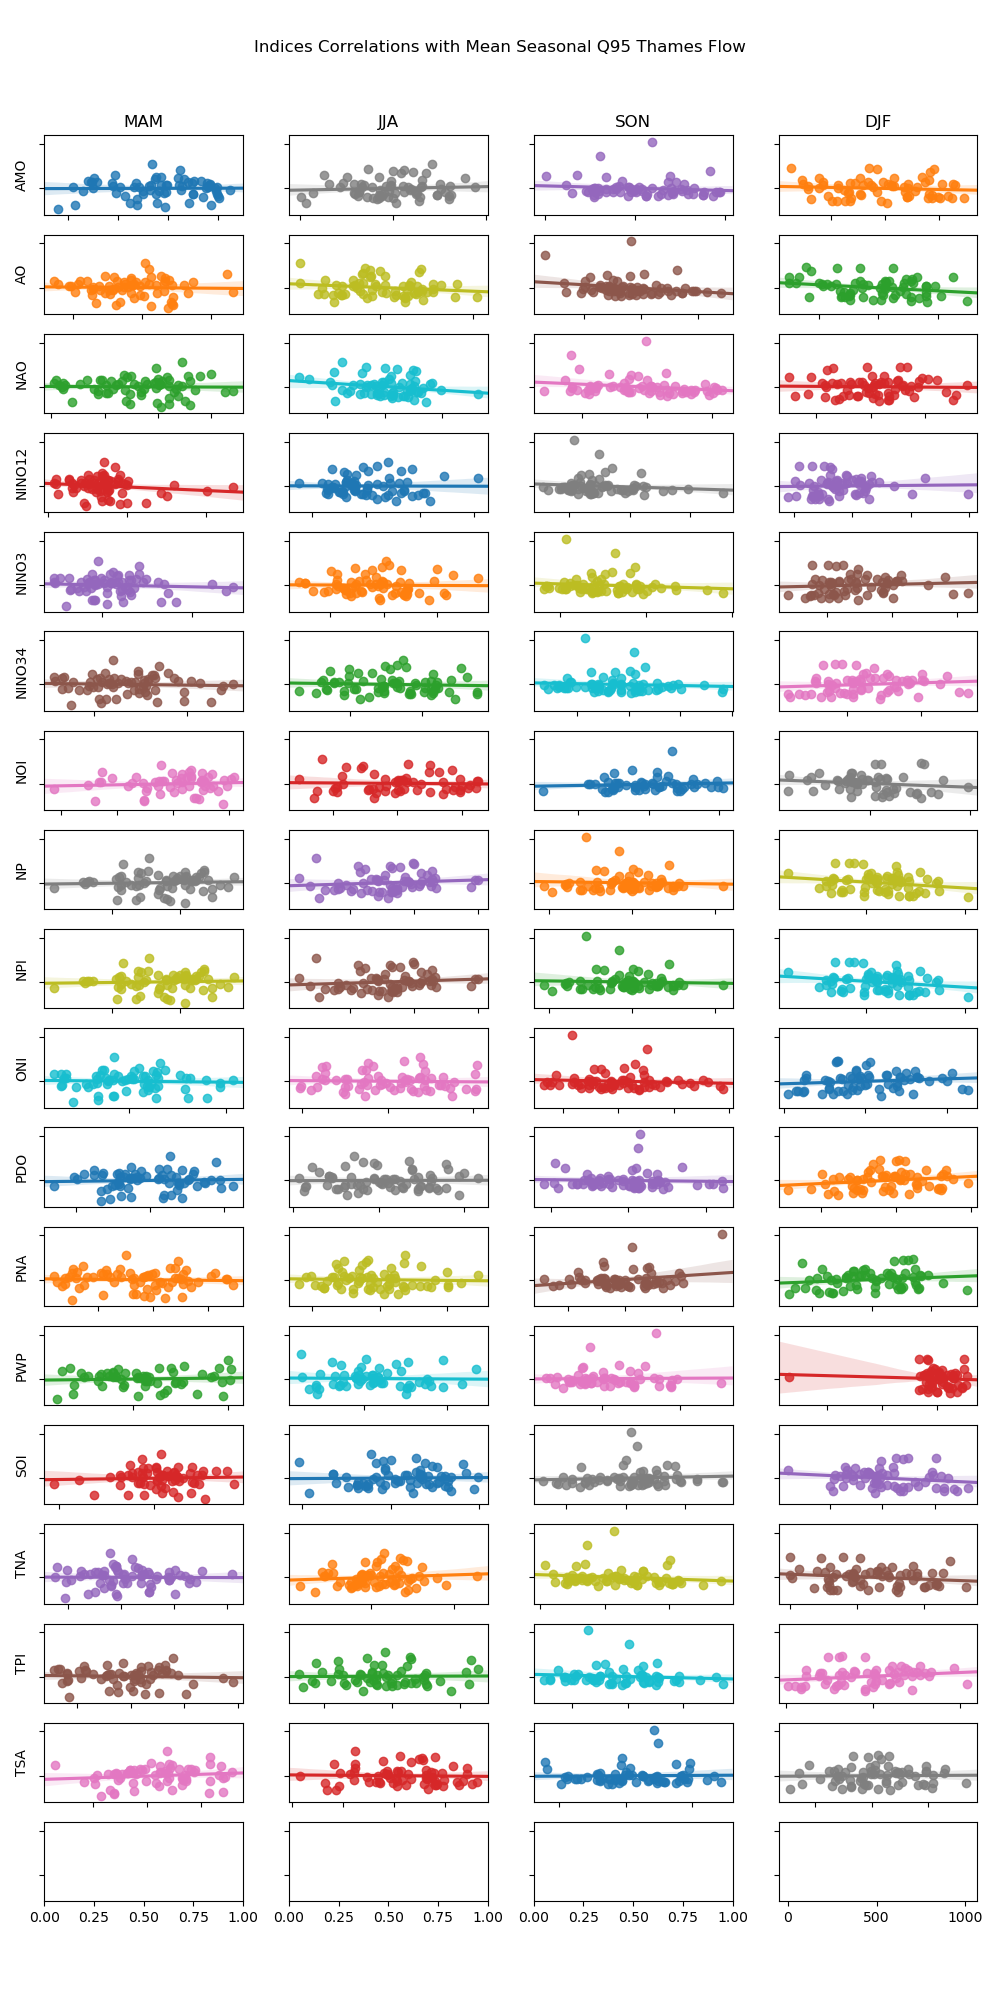
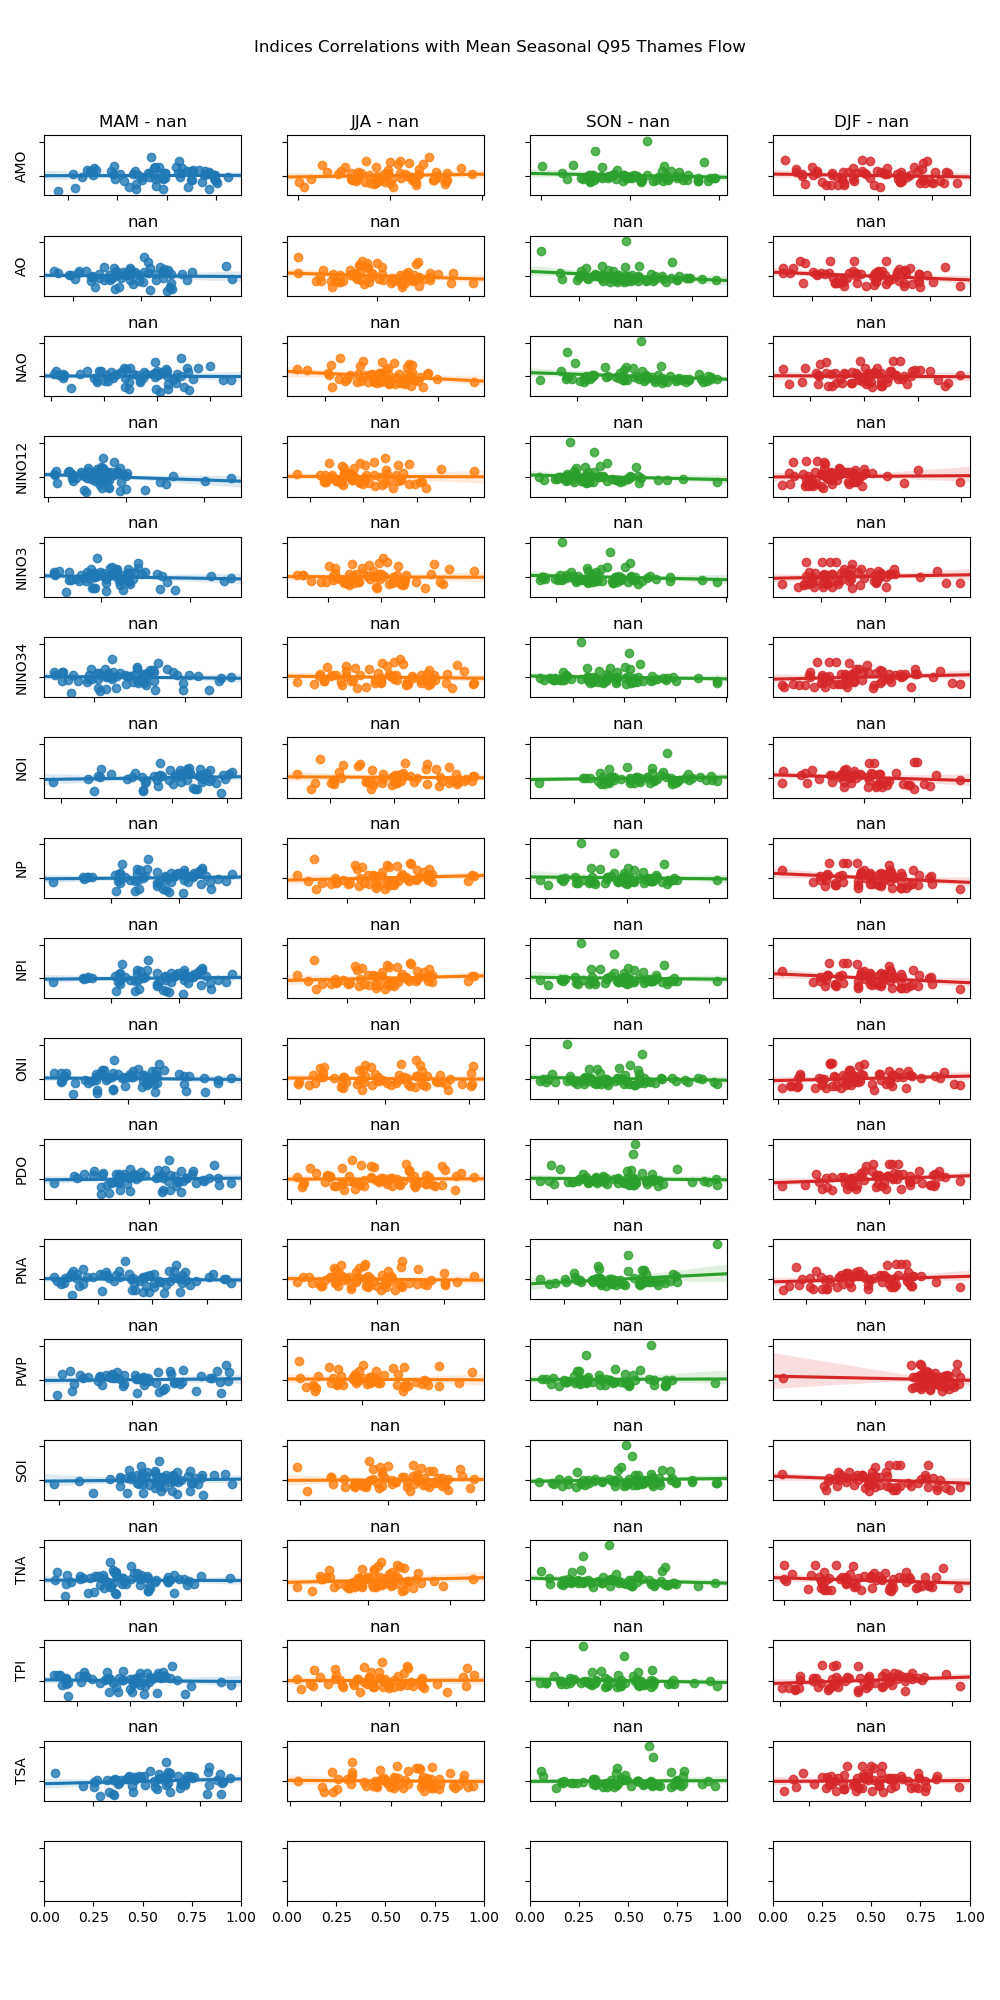
update stan environment file and new plots

diff --git a/calc_anomalies.py b/calc_anomalies.py
@@ -5,7 +5,7 @@ import matplotlib.pyplot as plt
 import seaborn as sns
 import numpy as np
 import scipy.stats as stats
-
+import xarray as xr
 
 data_dir = Path('/Users/tommylees/Downloads')
 
@@ -52,45 +52,48 @@ flow.index = pd.to_datetime(flow.index)
 flow = flow.loc['1950':]
 flow = flow.astype(float)
 
-# get the 95th percentile
+# get the high/low percentile
 flow_q95 = flow.resample('Q-DEC').quantile(q=0.95)
+flow_q05 = flow.resample('Q-DEC').quantile(q=0.05)
+
+
+def normalise_data_by_month(data) -> pd.DataFrame:
+    out = []
+    for season in np.unique(data.index.month.values):
+        mean = data.loc[data.index.month == season].mean()
+        std = data.loc[data.index.month == season].std()
+        value = (data.loc[data.index.month == season] - mean) / std
+
+        out.append(value)
+    return pd.concat(out)
+
 
 # normalise the flow data by season
 out = []
-for season in np.unique(flow_q95.index.month.values):
-    mean = flow_q95.loc[flow_q95.index.month == season].mean()
-    std = flow_q95.loc[flow_q95.index.month == season].std()
-    value = (flow_q95.loc[flow_q95.index.month == season] - mean) / std
+for i, data in enumerate([flow_q05, flow_q95]):
+    df = normalise_data_by_month(data)
+    if i == 0:
+        df = df.rename(columns={'flow':'q05'})
+    else:
+        df = df.rename(columns={'flow':'q95'})
+    out.append(df)
 
-    out.append(value)
+flow_hilo = out[0].join(out[1])
 
-flow_norm = pd.concat(out)
-
-# # MIN MAX Rescaling
-# f = flow.flow
-# min_max_scaler = preprocessing.MinMaxScaler()
-# x_scaled = min_max_scaler.fit_transform(x)
-# flow['flow_norm'] = flow_scaled
 
 # --------------------------------------------------
 # Plot correlations
 # --------------------------------------------------
-df = flow_norm.join(indices)
+df = flow_hilo.join(indices)
 fig, ax = plt.subplots()
 
 a = sns.scatterplot(
     x="NAO", y="flow", data=df, ax=ax
 )
 
-
 def r2(x, y):
     return stats.pearsonr(x, y)[0] ** 2
 
-
-fig, axs = plt.subplots(
-    len(indices.columns), 4, figsize=(10,20),
-    sharey=True
-)
 # a.annotate(stats.pearsonr, (0, 0))
 season_lookup = {
     3: 'MAM',
@@ -113,59 +116,89 @@ r_dict = {
     12: [],
 }
 
+
 def _pearson_r(x,y):
-    index = (x.isnull() | y.isnull())
-    x, y = x[index], y[index]
+    null_index = (x.isnull() | y.isnull())
+    x, y = x[~null_index], y[~null_index]
     return stats.pearsonr(x, y)[0]
 
-for i, season in enumerate(np.unique(df.index.month.values)):
-    for j, index in enumerate(df.iloc[:,2:].columns):
-        s_data = df.loc[df.index.month == season]
-        ax = axs[j, i]
-        sns.regplot(
-            x=index, y="flow", data=s_data, ax=ax,
-            color=color_lookup[season]
-        )
-        # r2(s_data[index], s_data.flow)
-        try:
-            r_value = _pearson_r(s_data[index], s_data.flow)
-        except:
-            r_value = np.nan
-        r = f"{r_value:.2f}"
-        r_dict[season].append(r_value)
 
-        if j == 0:
-            ax.set_title(f'{season_lookup[season]} - {r}')
-        else:
-            ax.set_title(f'{r}')
-        if i ==0:
-            ax.set_ylabel(f'{index.upper()}')
-        else:
-            ax.set_ylabel('')
-        ax.set_xlabel('')
-        ax.set_xticklabels('')
-        ax.set_yticklabels('')
-fig.suptitle('Indices Correlations with Mean Seasonal Q95 Thames Flow')
-fig.tight_layout(rect=[0, 0.03, 1, 0.95])
-fig.savefig('index_thames_correlation_lin_plot.png')
+for hilo_flow in ['q05', 'q95']:
+
+    fig, axs = plt.subplots(
+        len(indices.columns), 4, figsize=(10,20),
+        sharey=True
+    )
+
+    for i, season in enumerate(np.unique(df.index.month.values)):
+        for j, index in enumerate(df.iloc[:,3:].columns):
+            s_data = df.loc[df.index.month == season]
+            ax = axs[j, i]
+            r_value = _pearson_r(s_data[index], s_data[hilo_flow])
+            color = sns.color_palette()[0] if abs(r_value) > 0.1 else "#95a5a6"
+
+            sns.regplot(
+                x=index, y=hilo_flow, data=s_data, ax=ax,
+                color=color
+            )
+
+            r = f"{r_value:.2f}"
+            r_dict[season].append(r_value)
+
+            if j == 0:
+                ax.set_title(f'{season_lookup[season]} - {r}')
+            else:
+                ax.set_title(f'{r}')
+            if i ==0:
+                ax.set_ylabel(f'{index.upper()}')
+            else:
+                ax.set_ylabel('')
+            ax.set_xlabel('')
+            ax.set_xticklabels('')
+            ax.set_yticklabels('')
+    fig.suptitle(f'Indices Correlations with Mean Seasonal {hilo_flow} Thames Flow')
+    fig.tight_layout(rect=[0, 0.03, 1, 0.95])
+    fig.savefig(f'index_thames_correlation_{hilo_flow}.png')
+
+
 
 r_df = pd.DataFrame(r_dict)
 
+# ideas:
+# look at high vs. low flow
+# look at lagged predictability (shift by one season) vs. concurrency
 
+# -----------------------------------------------------------------------------
+# plot a hydrograph of the thames
+# http://pyhyd.blogspot.com/2017/11/matplotlib-template-for-precipitation.html
+# -----------------------------------------------------------------------------
 
+# convert to xarray
+ds = flow.to_xarray()
+f_med = (
+    ds.groupby('date.month').median().rename({'flow': 'flow_median'}).to_dataframe()
+)
+f_95 = (
+    ds
+    .groupby('date.month')
+    .reduce(np.nanpercentile, dim='date', q=95)
+    .rename({'flow': 'flow_q95'})
+    .to_dataframe()
+)
+f_05 = (
+    ds
+    .groupby('date.month')
+    .reduce(np.nanpercentile, dim='date', q=5)
+    .rename({'flow': 'flow_q05'})
+    .to_dataframe()
+)
+climatology = f_med.join(f_95).join(f_05)
 
-
-
-
-
-
-
-
-
-
-
-
-
-
+fig, ax = plt.subplots()
+climatology.flow_median.plot(ax=ax)
+plt.fill_between(climatology.index.values, climatology.flow_q05, climatology.flow_q95, alpha=0.3)
+ax.set_ylabel('Flow [m-3 s-1]')
+ax.set_title('Annual Seasonality of Thames River Flow')
+fig.savefig('thames_flow_climatology.png')
 
 #
